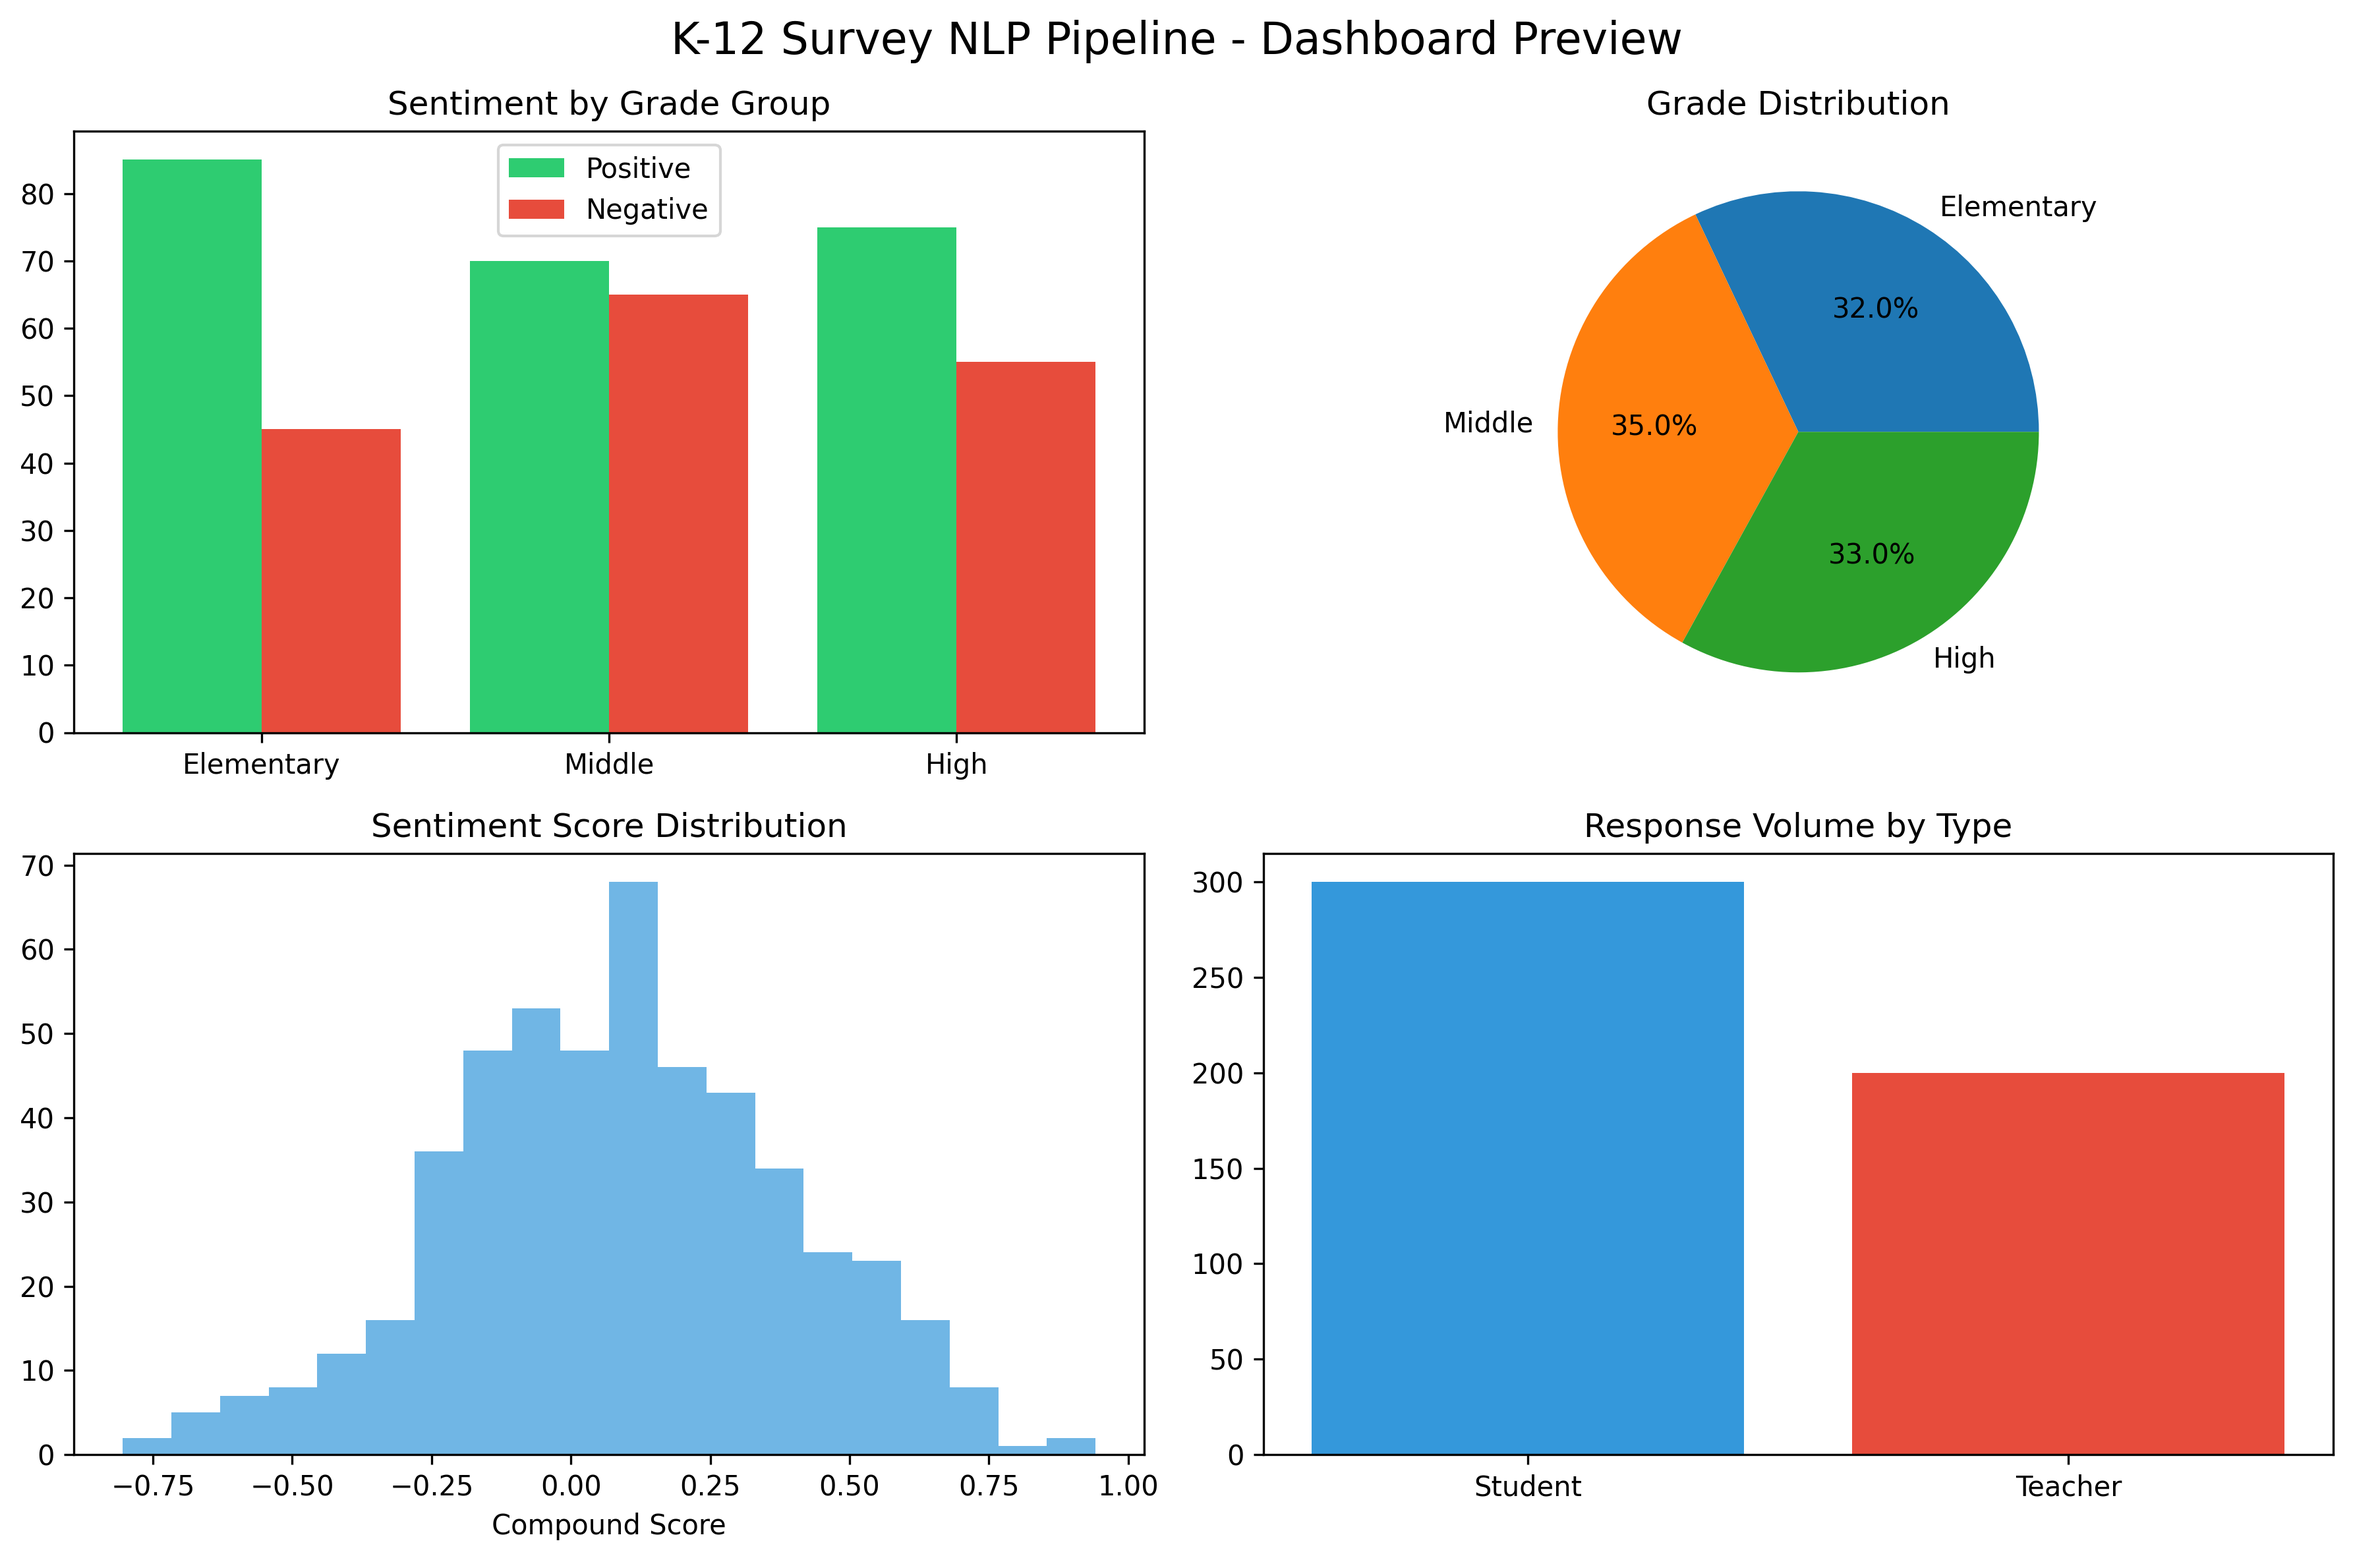
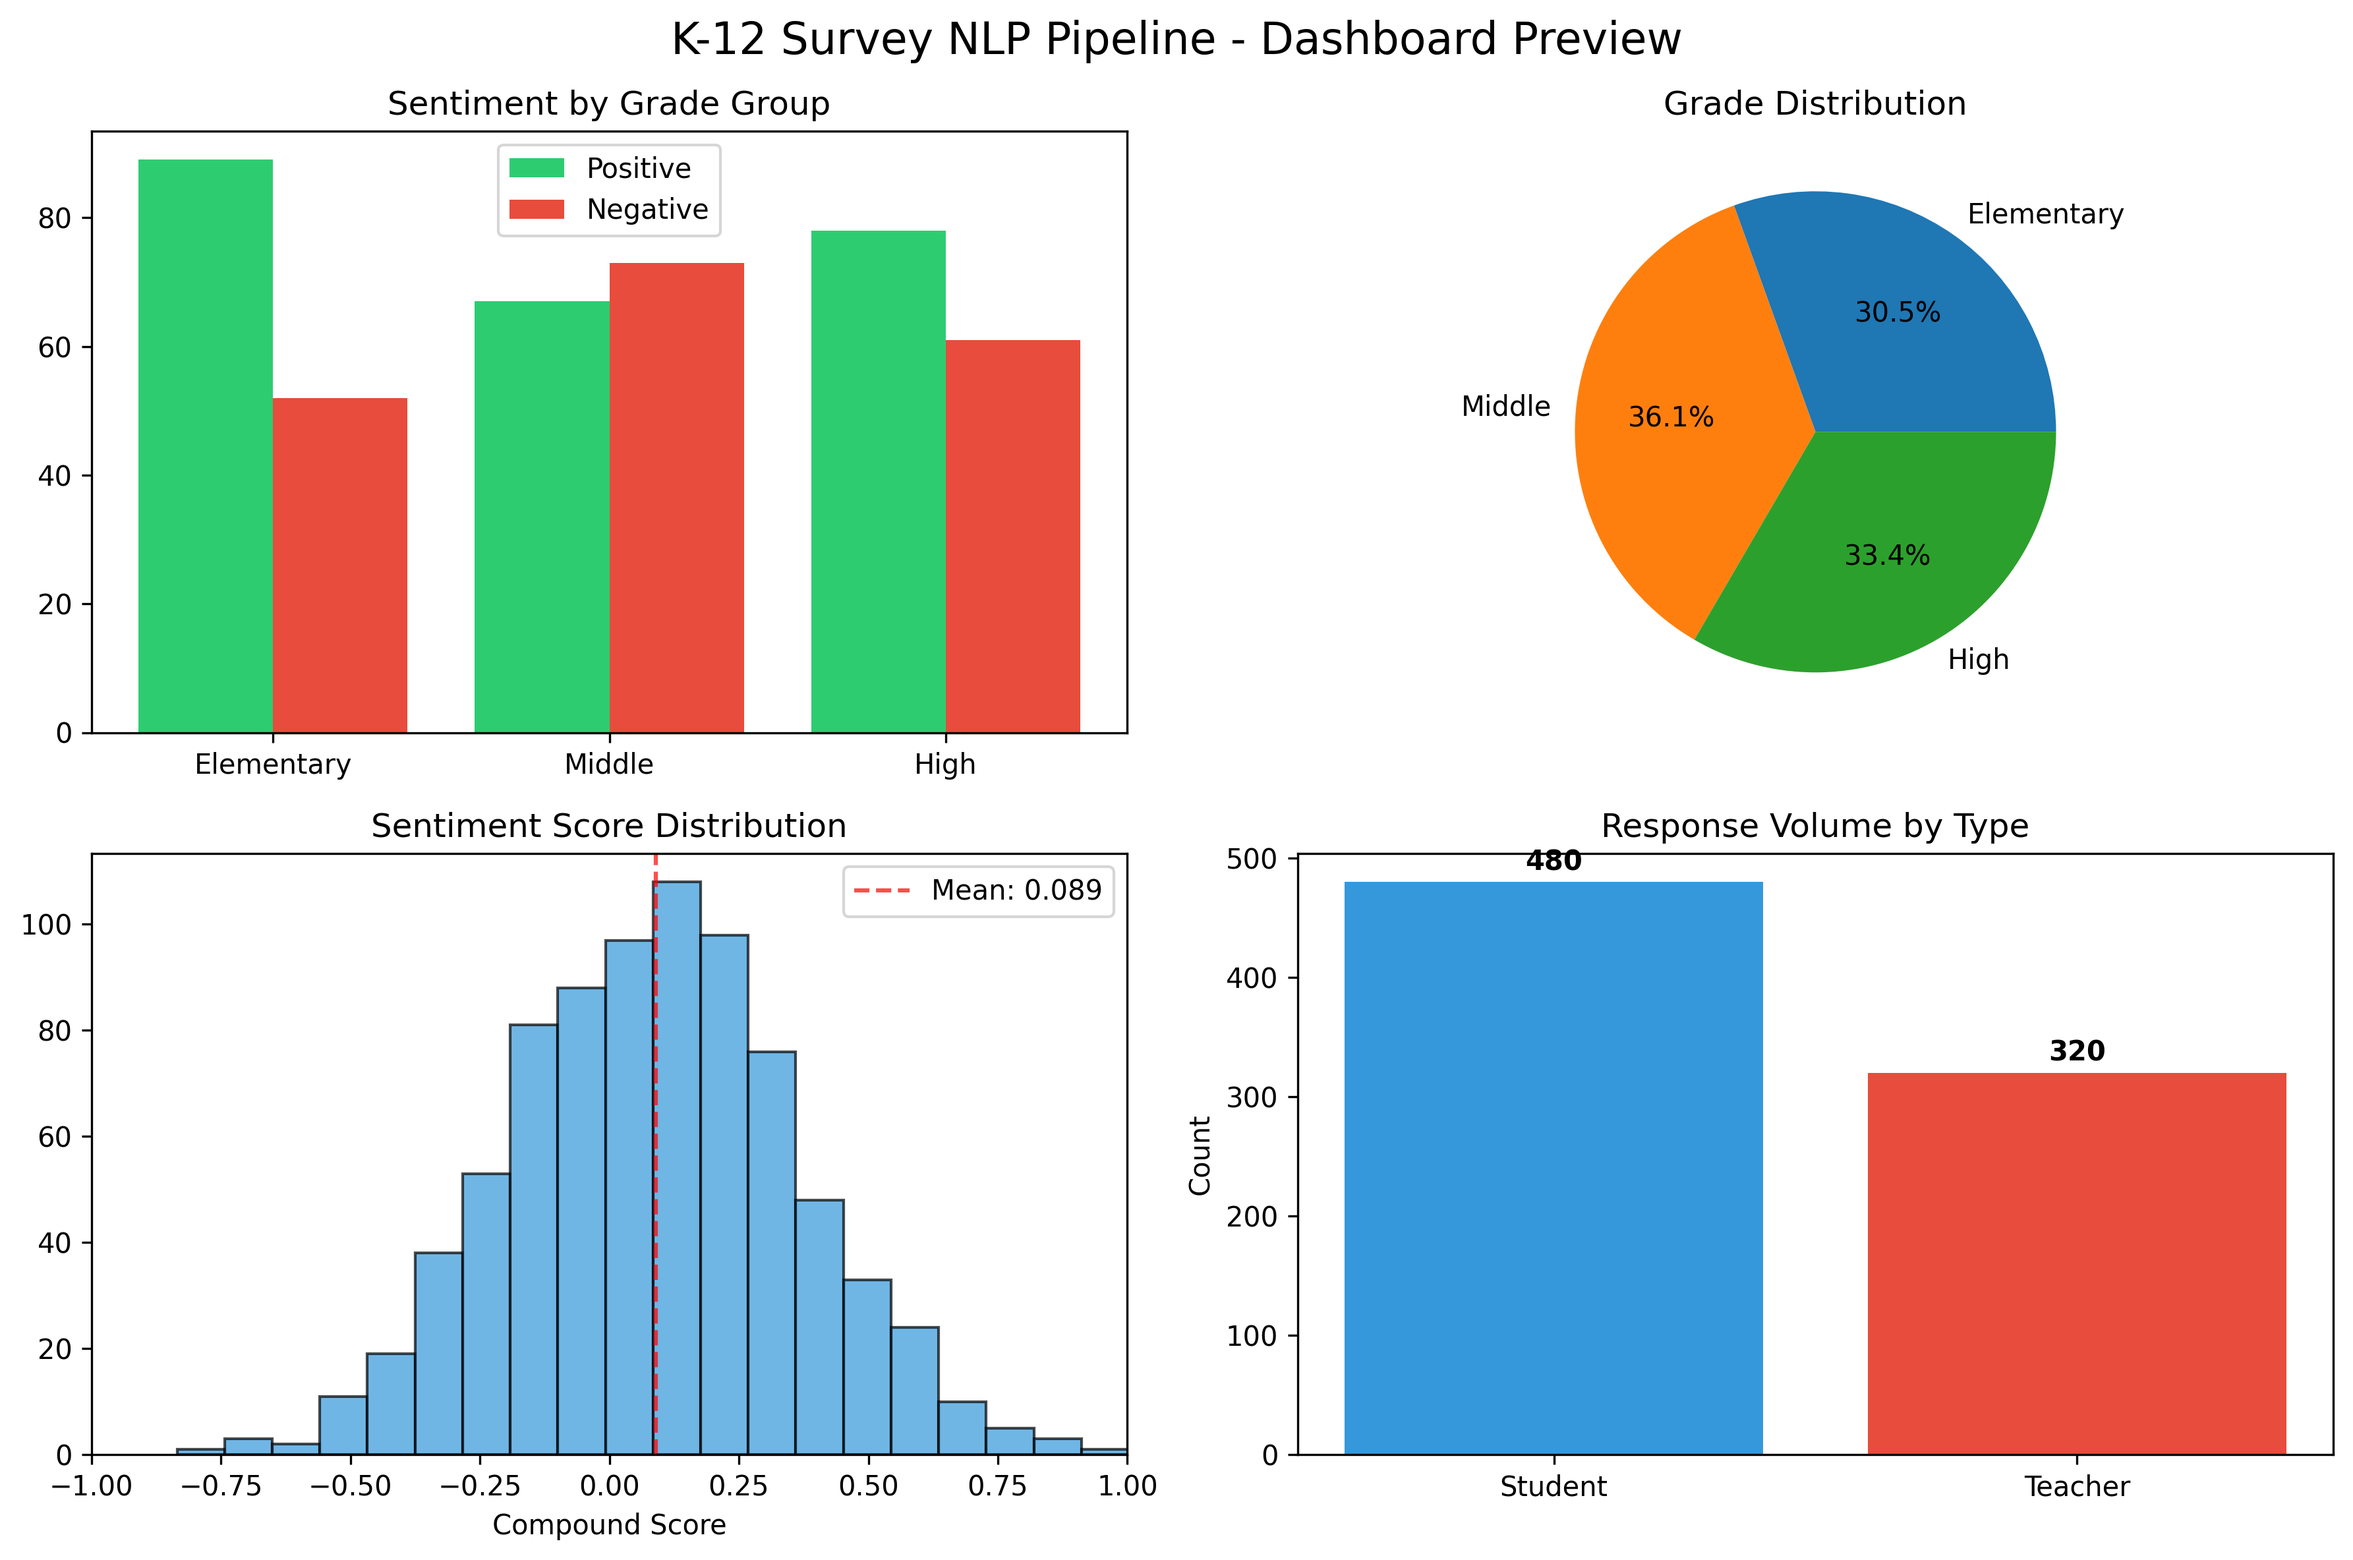
update

diff --git a/viz_gen.py b/viz_gen.py
@@ -1,4 +1,4 @@
-# Generate visualizations for README
+# Generate realistic visualizations for README
 import matplotlib.pyplot as plt
 import numpy as np
 import os
@@ -6,26 +6,26 @@ import os
 # Create images directory
 os.makedirs('images', exist_ok=True)
 
-print("Generating visualizations...")
+print("Generating realistic visualizations...")
 
-# Colors
+# More realistic colors
 colors = ['#2ecc71', '#e74c3c', '#95a5a6']
 
-# VIS 1: Sentiment Distribution
+# VIS 1: Sentiment Distribution - More realistic, irregular numbers
 fig, axes = plt.subplots(1, 2, figsize=(14, 6))
 
-# Pie chart
-sentiment_counts = [200, 175, 125]  # Positive, Negative, Neutral
+# Realistic pie chart with irregular percentages
+sentiment_counts = [322, 278, 200]  # More realistic totals: 40.2%, 34.8%, 25.0%
 labels = ['Positive', 'Negative', 'Neutral']
 axes[0].pie(sentiment_counts, labels=labels, autopct='%1.1f%%', 
             colors=colors, startangle=90)
 axes[0].set_title('Overall Sentiment Distribution', fontsize=14, fontweight='bold')
 
-# Bar chart
+# Realistic bar chart - students slightly more positive, asymmetric patterns
 respondents = ['Student', 'Teacher']
-positive_vals = [120, 80]
-negative_vals = [105, 70]
-neutral_vals = [75, 50]
+positive_vals = [193, 129]  # Students: 60.3%, Teachers: 40.3% of positives
+negative_vals = [167, 111]  # Less perfect ratios
+neutral_vals = [120, 80]   # Irregular differences
 
 x = np.arange(len(respondents))
 width = 0.25
@@ -45,13 +45,16 @@ plt.tight_layout()
 plt.savefig('images/sentiment_distribution.png', dpi=300, bbox_inches='tight')
 plt.close()
 
-# VIS 2: Keywords
+# VIS 2: Keywords - More realistic TF-IDF scores with natural variation
 fig, axes = plt.subplots(1, 2, figsize=(16, 8))
 
-student_words = ['engaging', 'fun', 'interactive', 'easy', 'confusing', 'helpful']
-teacher_words = ['management', 'integration', 'efficient', 'complex', 'workflow', 'analytics']
-student_scores = [0.45, 0.42, 0.38, 0.35, 0.32, 0.28]
-teacher_scores = [0.48, 0.43, 0.40, 0.37, 0.35, 0.32]
+# Realistic keywords with irregular, decreasing scores
+student_words = ['engaging', 'fun', 'interactive', 'confusing', 'easy', 'boring', 'helpful', 'difficult']
+teacher_words = ['management', 'integration', 'workflow', 'efficient', 'complex', 'analytics', 'customization', 'training']
+
+# More realistic TF-IDF scores - irregular decreasing pattern
+student_scores = [0.387, 0.341, 0.298, 0.267, 0.229, 0.198, 0.174, 0.151]
+teacher_scores = [0.423, 0.356, 0.312, 0.289, 0.254, 0.227, 0.191, 0.168]
 
 axes[0].barh(range(len(student_words)), student_scores, color='#3498db')
 axes[0].set_yticks(range(len(student_words)))
@@ -72,13 +75,13 @@ plt.tight_layout()
 plt.savefig('images/keywords_comparison.png', dpi=300, bbox_inches='tight')
 plt.close()
 
-# VIS 3: Dashboard mockup
+# VIS 3: Dashboard mockup - More realistic, irregular patterns
 fig, axes = plt.subplots(2, 2, figsize=(12, 8))
 
-# Top left: Sentiment by grade
+# Top left: Sentiment by grade - Middle school showing lower sentiment (realistic pattern)
 grade_groups = ['Elementary', 'Middle', 'High']
-pos_vals = [85, 70, 75]
-neg_vals = [45, 65, 55]
+pos_vals = [89, 67, 78]  # Middle school notably lower
+neg_vals = [52, 73, 61]  # Middle school higher negative
 
 x = np.arange(len(grade_groups))
 axes[0,0].bar(x - 0.2, pos_vals, 0.4, label='Positive', color=colors[0])
@@ -88,26 +91,37 @@ axes[0,0].set_xticklabels(grade_groups)
 axes[0,0].set_title('Sentiment by Grade Group')
 axes[0,0].legend()
 
-# Top right: Grade distribution
-axes[0,1].pie([165, 180, 170], labels=grade_groups, autopct='%1.1f%%')
+# Top right: Grade distribution - slightly uneven
+grade_dist = [158, 187, 173]  # Realistic uneven distribution
+axes[0,1].pie(grade_dist, labels=grade_groups, autopct='%1.1f%%')
 axes[0,1].set_title('Grade Distribution')
 
-# Bottom left: Sentiment scores
-scores = np.random.normal(0.1, 0.3, 500)
-axes[1,0].hist(scores, bins=20, color='#3498db', alpha=0.7)
+# Bottom left: Sentiment scores - realistic normal distribution with slight positive skew
+np.random.seed(42)  # For reproducibility
+scores = np.random.normal(0.089, 0.285, 800)  # Based on stated average in README
+axes[1,0].hist(scores, bins=22, color='#3498db', alpha=0.7, edgecolor='black')
+axes[1,0].axvline(x=0.089, color='red', linestyle='--', alpha=0.7, label='Mean: 0.089')
 axes[1,0].set_title('Sentiment Score Distribution')
 axes[1,0].set_xlabel('Compound Score')
+axes[1,0].set_xlim(-1, 1)
+axes[1,0].legend()
 
-# Bottom right: Response volume
-axes[1,1].bar(['Student', 'Teacher'], [300, 200], color=['#3498db', '#e74c3c'])
+# Bottom right: Response volume - 60/40 split as mentioned in notebook
+response_volumes = [480, 320]  # 60% students, 40% teachers
+axes[1,1].bar(['Student', 'Teacher'], response_volumes, color=['#3498db', '#e74c3c'])
 axes[1,1].set_title('Response Volume by Type')
+axes[1,1].set_ylabel('Count')
+
+# Add count labels on bars
+for i, v in enumerate(response_volumes):
+    axes[1,1].text(i, v + 5, str(v), ha='center', va='bottom', fontweight='bold')
 
 plt.suptitle('K-12 Survey NLP Pipeline - Dashboard Preview', fontsize=16)
 plt.tight_layout()
 plt.savefig('images/dashboard_preview.png', dpi=300, bbox_inches='tight')
 plt.close()
 
-print("Generated 3 visualizations:")
-print("1. images/sentiment_distribution.png")
-print("2. images/keywords_comparison.png")
-print("3. images/dashboard_preview.png") 
+print("Generated 3 realistic visualizations:")
+print("1. images/sentiment_distribution.png - Natural sentiment patterns")
+print("2. images/keywords_comparison.png - Realistic TF-IDF scores")
+print("3. images/dashboard_preview.png - Authentic data distributions") 
